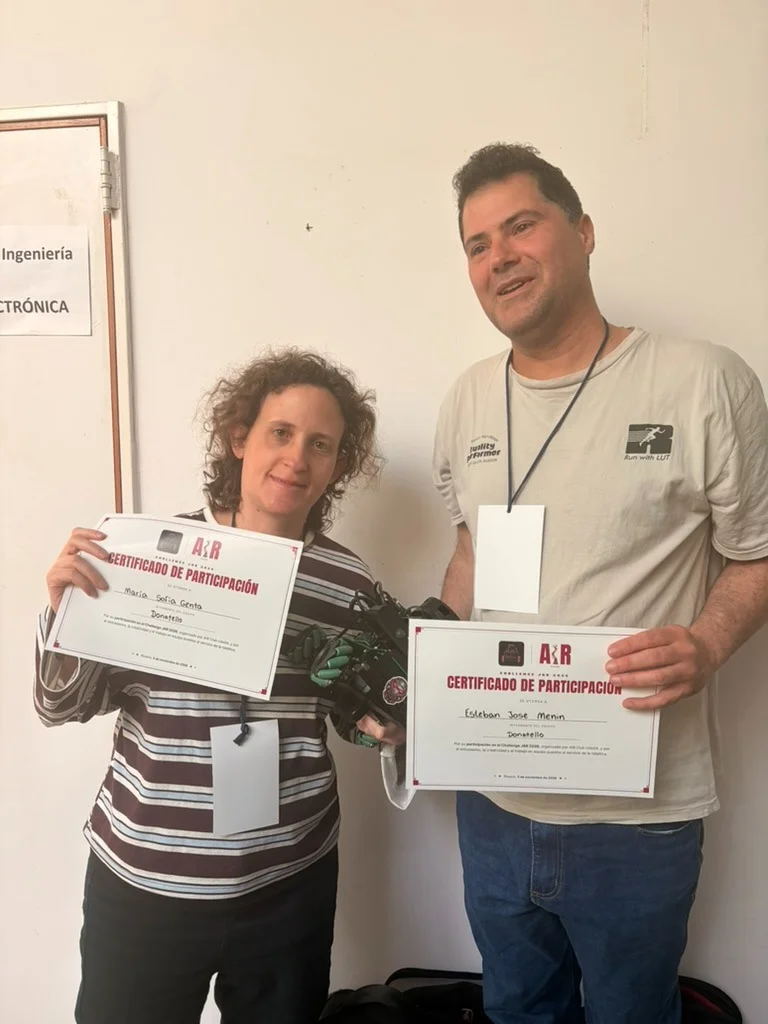
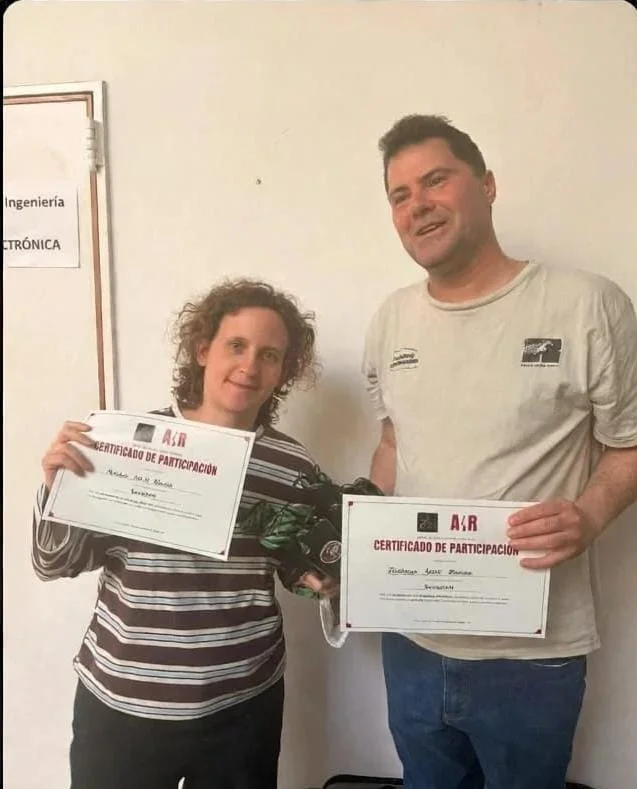
style:correcion de titulo y cambiar foto por original

diff --git a/src/data/encuentros.ts b/src/data/encuentros.ts
@@ -38,8 +38,8 @@ export const FOTOS_ENCUENTROS: FotoEncuentro[] = [
   // },
   {
     src: '/assets/encuentros/equipo.webp',
-    alt: 'Los fundadores de tecnoros.ar junto a Capibara, la mascota donde todo empezó',
-    titulo: 'Los fundadores con capibara, quien fue la mascota protagonista donde todo esto se origino',
+    alt: 'Los fundadores de tecnoros.ar con "Capi", la mascota donde todo empezó',
+    titulo: 'Los fundadores con "Capi", quien fue la mascota protagonista donde todo esto se origino',
     tipo: 'comienzos',
   },
   {
@@ -56,6 +56,14 @@ export const FOTOS_ENCUENTROS: FotoEncuentro[] = [
     tipo: 'jornadas',
     fecha: '2026-10-27',
     lugar: 'Terminal Fluvial de Rosario, Santa Fe',
+  },
+    {
+    src: '/assets/encuentros/challenge.webp',
+    alt: 'Equipo de tecnoros.ar en el Challenge JAR 2026',
+    titulo: 'Challenge JAR 2026 · organizado por AIR Club UdeSa',
+    tipo: 'jornadas',
+    fecha: '2026-11-05',
+    lugar: 'Rosario',
   },
 
   {
